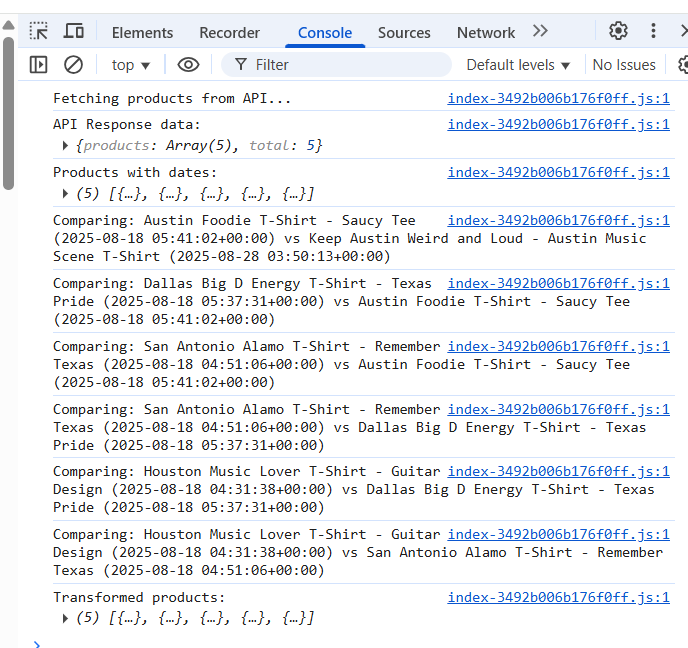
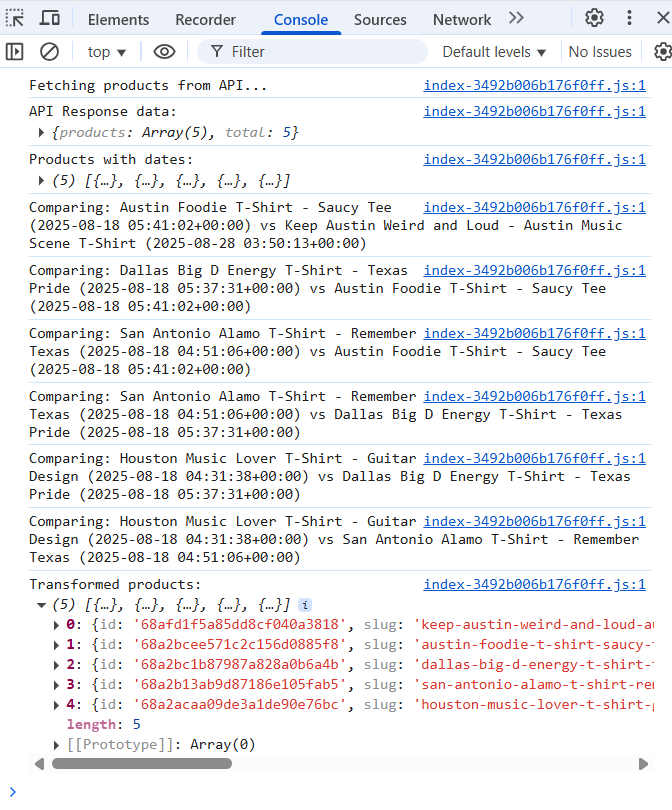
Compare date fields between products to find correct creation timestamp

Changed region(s): [[0.0, 0.0, 1.0, 0.9877], [0.4375, 0.9259, 0.4688, 0.9568], [0.0312, 0.9877, 0.0625, 1.0]]

diff --git a/pages/api/printify/products.js b/pages/api/printify/products.js
@@ -51,18 +51,29 @@ export default async function handler(req, res) {
           
           if (testResponse.ok) {
             const testData = await testResponse.json();
-            console.log('Full individual product response:', JSON.stringify(testData, null, 2))
-            console.log('Creation date field:', testData.created_at)
+            console.log('All date-related fields found:')
+            console.log('- created_at:', testData.created_at)
+            console.log('- updated_at:', testData.updated_at) 
+            console.log('- publish_at:', testData.publish_at)
+            console.log('- Any other timestamps?', Object.keys(testData).filter(key => 
+              key.includes('date') || key.includes('time') || key.includes('created') || key.includes('updated')
+            ))
             
-            // Update just this one product for now
-            const productIndex = detailedProducts.findIndex(p => p.id === testProductId)
-            if (productIndex !== -1) {
-              detailedProducts[productIndex] = {
-                ...detailedProducts[productIndex],
-                created_at: testData.created_at,
-                updated_at: testData.updated_at
-              }
+            // Also test a different product to compare
+            console.log('Testing Houston product for comparison...')
+            const houstonResponse = await fetch(`https://api.printify.com/v1/shops/${SHOP_ID}/products/68a2acaa09de3a1de90e76bc.json`, {
+              headers
+            });
+            
+            if (houstonResponse.ok) {
+              const houstonData = await houstonResponse.json();
+              console.log('Houston product dates:')
+              console.log('- created_at:', houstonData.created_at)
+              console.log('- updated_at:', houstonData.updated_at)
+              console.log('- publish_at:', houstonData.publish_at)
             }
+            
+            // For now, don't update anything - let's see the data first
           } else {
             console.error('Individual product fetch failed:', testResponse.status, await testResponse.text())
           }
